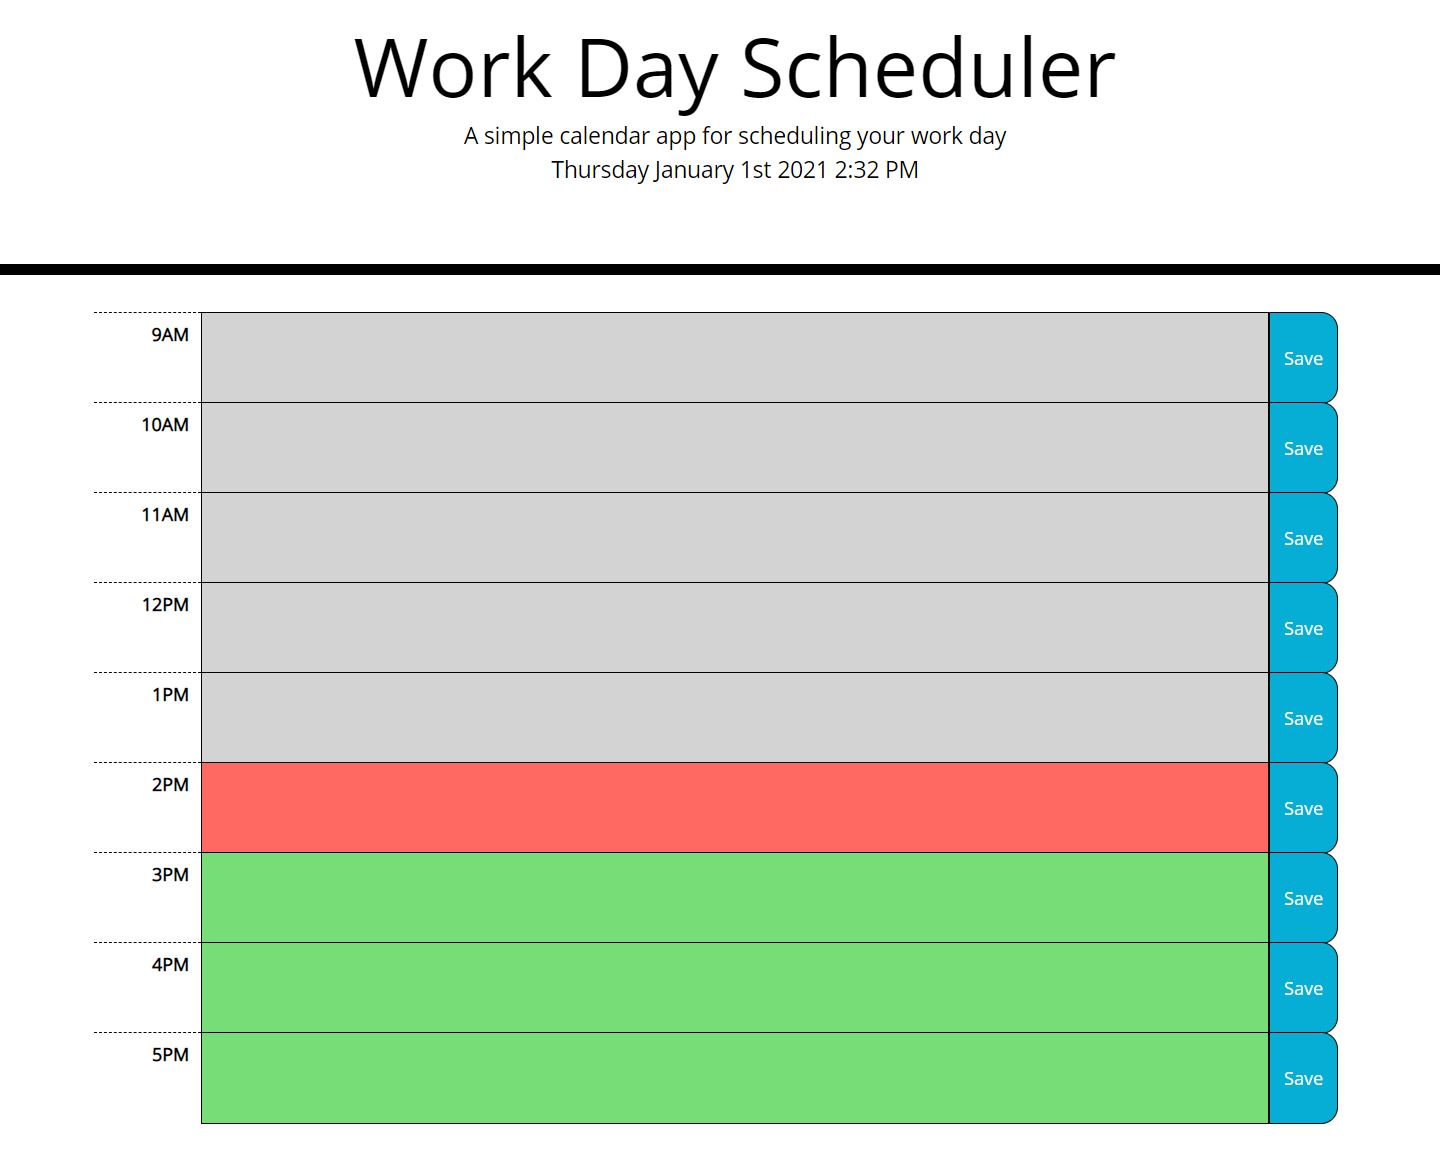
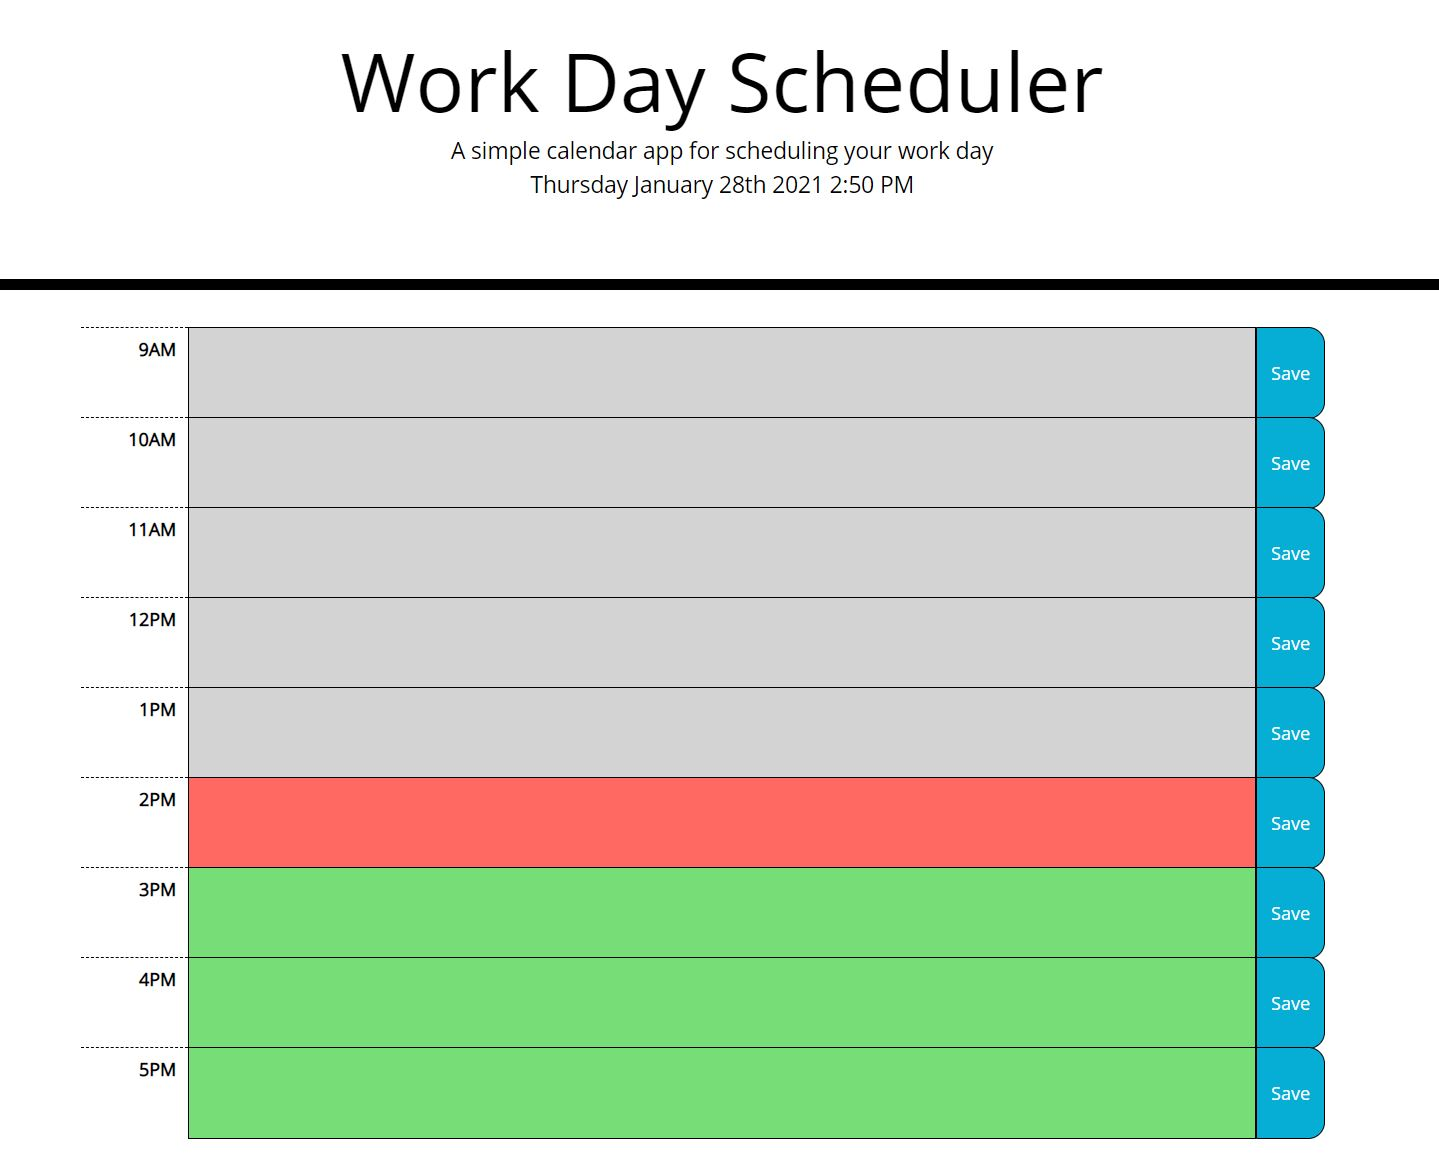
Revised README

Changed region(s): [[0.0, 0.2152, 1.0, 0.9838], [0.2446, 0.0307, 0.7644, 0.1845]]

diff --git a/README.md b/README.md
@@ -11,6 +11,8 @@ After that I added local storage. With the help of my tutor I learned how to tur
 
 I then came back to the CSS and made my site look more like the example on GitLab. 
 
+The last major edit I made to the JavaScript was fix a bug. I noticed that no matter what the day was it always displayed as "January 1st" at the top of my page. I realized I used the incorrect formatting method in moment js. I used "Mo", which is month as a number (in this case 1st for January) instead of "Do" for day of (which today is the 28th).
+
 This homework was definitely a challenge. I got stuck trying to solve that depracation error for hours until I learned I was making the problem more complicated than it needed to be. Overall though I learned a lot about moment js, objects in JavaScript, and how to use objects for local storage. 
 
 ## Project Link
